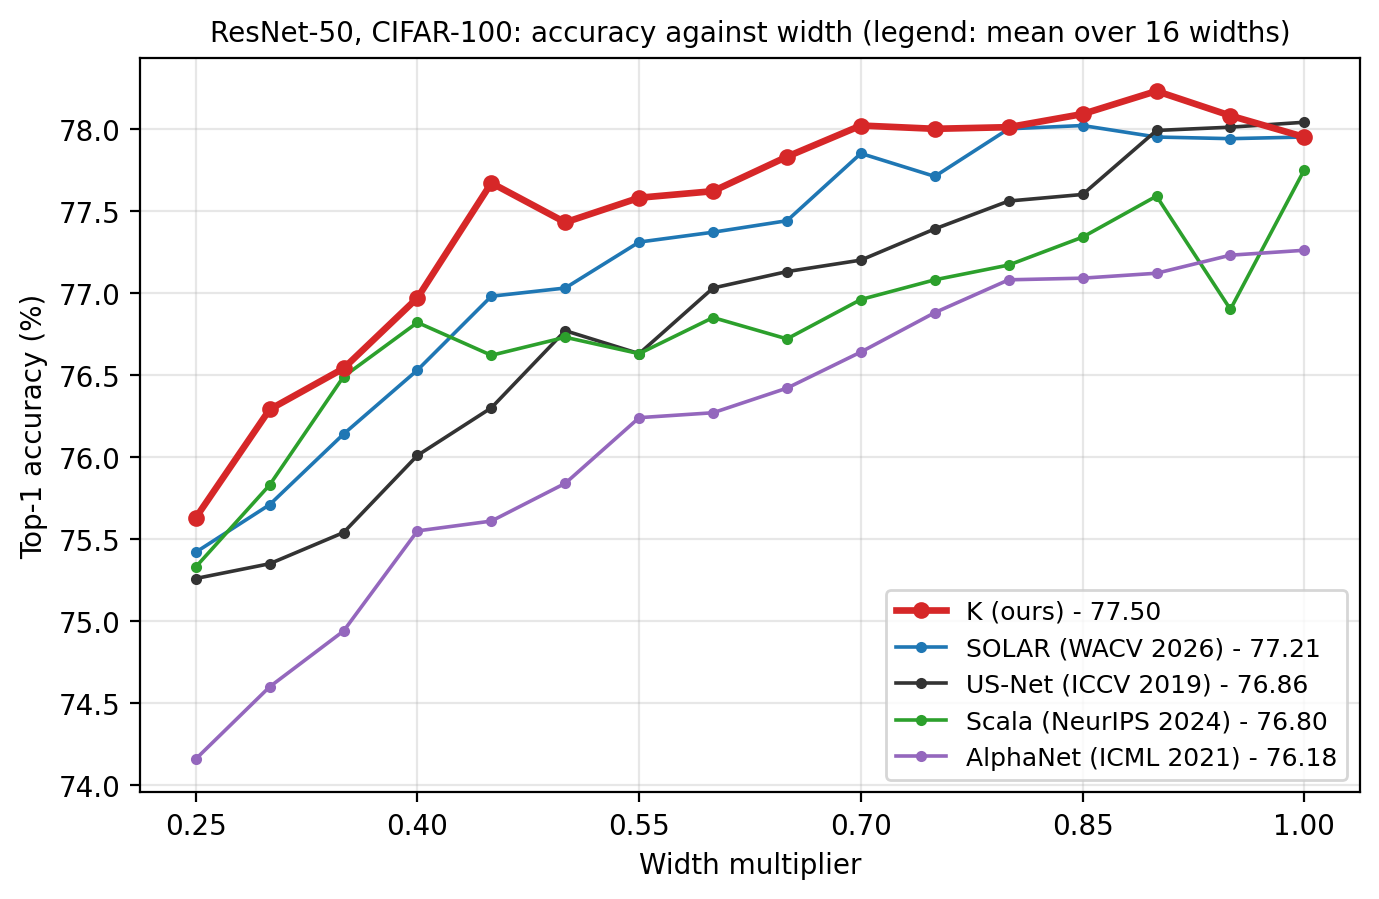
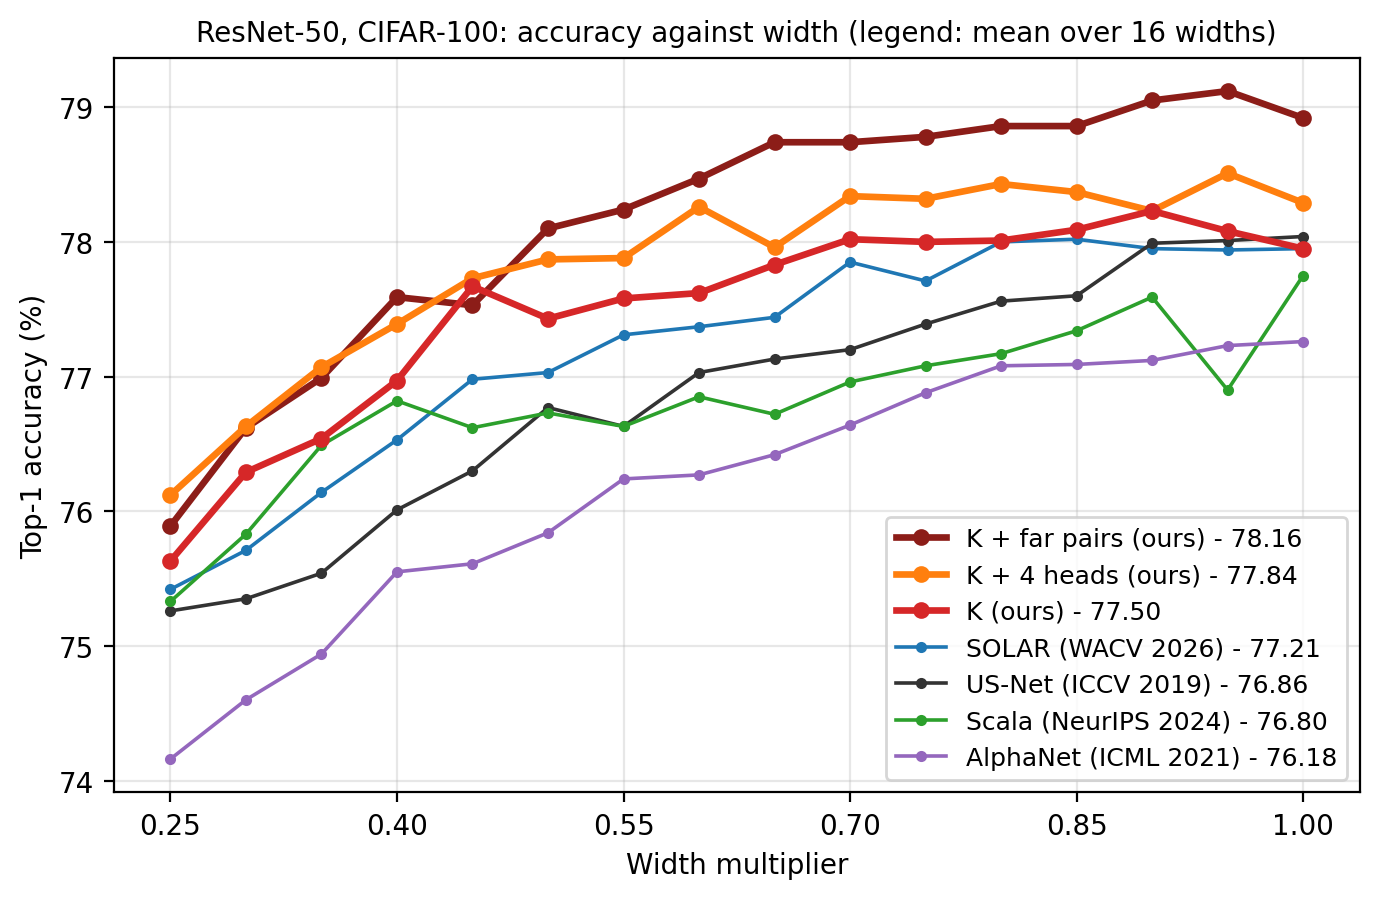
Comparison figure: K with four heads and K with far pairs added
DO (77.84) and DM (78.16) drawn beside DD and the published methods.
Both are one seed, as the script's comment says.

Claude-Session: https://claude.ai/code/session_01RnGz1ZRqc4zLTwEg6GYQ7a

diff --git a/scripts/plot_comparison.py b/scripts/plot_comparison.py
@@ -3,7 +3,8 @@
     python scripts/plot_comparison.py
 
 Writes results/figures/compare_r50.png and .pdf: top-1 against width at
-the sixteen widths 0.25-1.00. Every run here is seed 1995 under the same
+the sixteen widths 0.25-1.00, for K, K with four heads (DO) and K with
+far free-width pairs (DM) against the published methods. Every run here is seed 1995 under the same
 protocol, read after BN recalibration. WKD-L in US-Net (74.72) and DYNAS
 (73.92) sit far below and are left out so the close methods stay
 readable.
@@ -18,8 +19,11 @@ import matplotlib.pyplot as plt  # noqa: E402
 ROOT = os.path.dirname(os.path.dirname(os.path.abspath(__file__)))
 OUT = os.path.join(ROOT, 'results', 'figures')
 
-# letter, label, colour, emphasised
+# letter, label, colour, emphasised. DO and DM are one seed each, so
+# their lead over DD is not yet a result.
 METHODS = [
+    ('DM', 'K + far pairs (ours)', '#8c1d18', True),
+    ('DO', 'K + 4 heads (ours)', '#ff7f0e', True),
     ('DD', 'K (ours)', '#d62728', True),
     ('CH', 'SOLAR (WACV 2026)', '#1f77b4', False),
     ('BX', 'US-Net (ICCV 2019)', '#333333', False),
